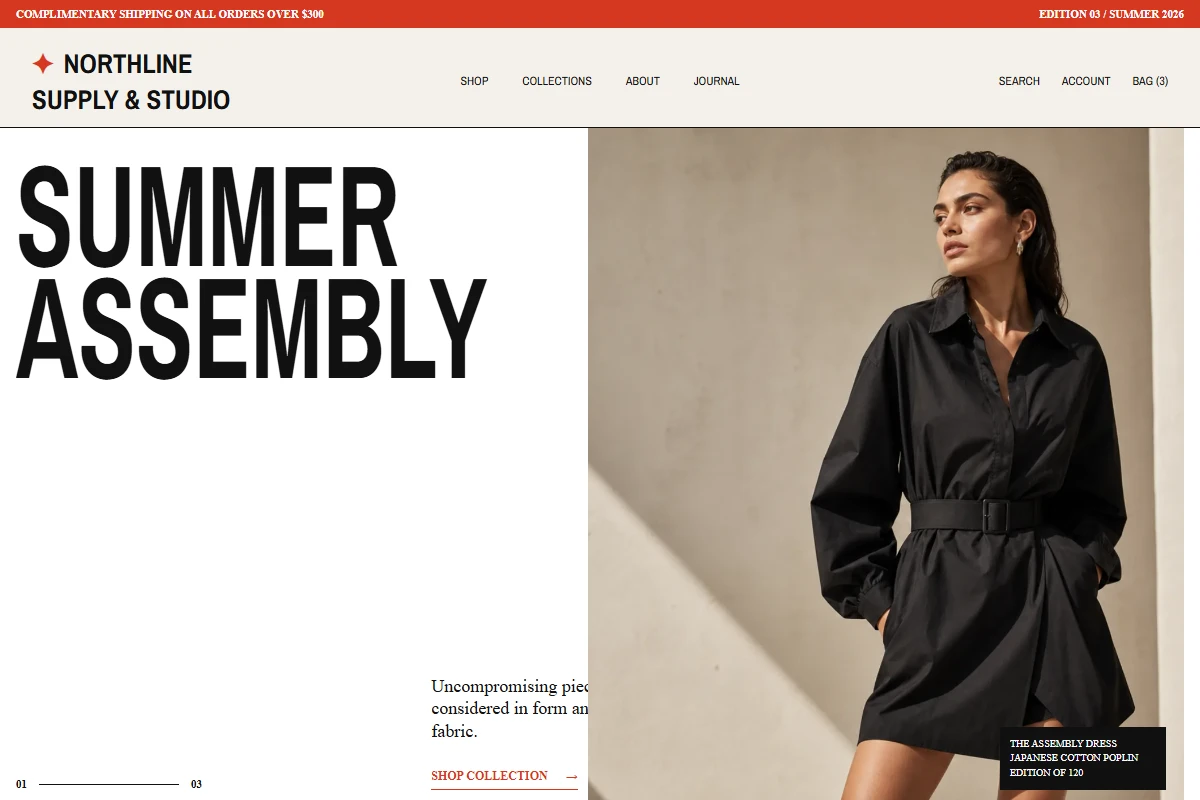
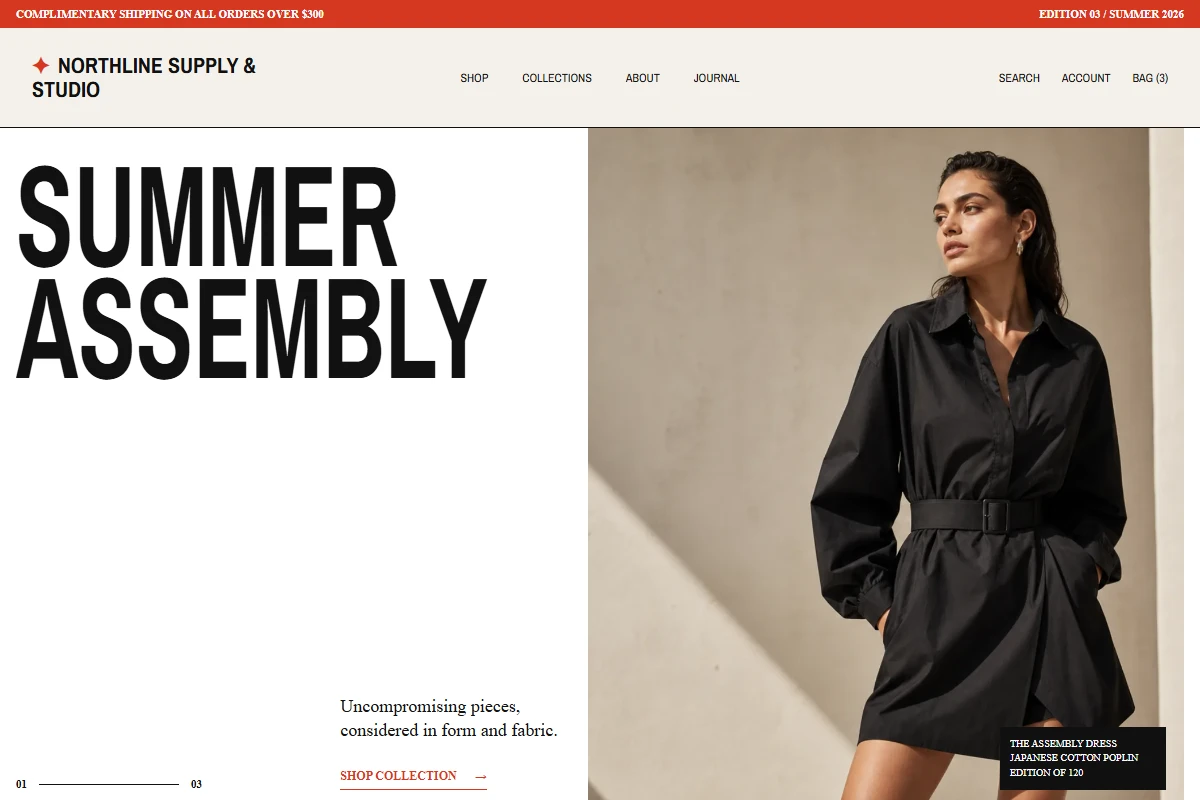
storefront/recipes: fix atelier-nine overflow and quick-buy structure
The hero copy grid track sized to the h1 intrinsic width (~627px at the
104px breakpoint), pushing the intro under the media column where
overflow:hidden clipped it mid-word; minmax(0,1fr) pins the track. The
wordmark now wraps inside the 67px header (clamped size, min-height,
flexible track columns at every breakpoint, flexible edition rule) so
long store names neither spill over the hero nor break the sticky
sidebar offset. Quick-buy slots move onto a repeated inner item under
one section so the runtime strip grid can lay them out side by side.
Baselines and the screenshot manifest are regenerated from the proof
harness (18/18 cases pass).

diff --git a/app/lib/storefront-recipes/atelier-nine/bundle.ts b/app/lib/storefront-recipes/atelier-nine/bundle.ts
@@ -11,8 +11,8 @@ const globalCss = `
 .atelier-shell { width:min(calc(100% - 32px),1540px); margin-inline:auto }
 .announcement { display:flex; justify-content:space-between; padding:8px 16px; color:#fff; background:#d63821; font-size:11px; font-weight:700; text-transform:uppercase }
 .atelier-site-header { position:sticky; top:0; z-index:20; background:#f4f1eb; border-bottom:1px solid #101010 }
-.header-row { display:grid; grid-template-columns:250px 1fr 250px; align-items:center; height:67px }
-.atelier-wordmark { color:#101010; font-family:var(--font-display); font-size:27px; font-weight:900; text-transform:uppercase }
+.header-row { display:grid; grid-template-columns:minmax(0,250px) 1fr minmax(0,250px); align-items:center; min-height:67px }
+.atelier-wordmark { color:#101010; font-family:var(--font-display); font-size:clamp(15px,2vw,22px); font-weight:900; line-height:1.05; padding-block:8px; text-transform:uppercase }
 .atelier-nav-links,.atelier-utility { display:flex; align-items:center; gap:34px; font-family:var(--font-display); font-size:12px; text-transform:uppercase }
 .atelier-nav-links { justify-content:center }
 .atelier-utility { justify-content:flex-end; gap:22px }
@@ -66,7 +66,9 @@ const homeHtml = `
       </div>
     </div>
   </section>
-  <section data-cd-repeat="featured.products"><div data-cd-key="product.id" data-cd-slot="quickViewCommerce" data-cd-product="product.id" data-cd-host-size="panel" data-cd-theme-tokens="ink paper accent"></div></section>
+  <section>
+    <div data-cd-repeat="featured.products"><div data-cd-key="product.id" data-cd-slot="quickViewCommerce" data-cd-product="product.id" data-cd-host-size="panel" data-cd-theme-tokens="ink paper accent"></div></div>
+  </section>
   <section class="atelier-shell manifesto">
     <div class="manifesto-copy"><span class="manifesto-kicker">The Atelier Standard</span><h2>Designed slowly. Worn without ceremony.</h2><p>Every piece begins with proportion: a shoulder line, a clean fall, a pocket placed exactly where the hand expects it. We use materials selected for movement, longevity, and a life beyond one season.</p><a class="arrow-link" data-cd-route="collection">Read our process <span>→</span></a></div>
     <div class="manifesto-index"><div><strong>09</strong><span>Pieces / one complete wardrobe</span></div></div>
@@ -75,13 +77,13 @@ const homeHtml = `
 
 const homeCss = `
 .hero { display:grid; grid-template-columns:49% 51%; min-height:680px; border-bottom:1px solid #101010 }
-.hero-copy { display:grid; grid-template-rows:1fr auto; overflow:hidden; padding:30px 18px 18px 0 }
+.hero-copy { display:grid; grid-template-columns:minmax(0,1fr); grid-template-rows:1fr auto; overflow:hidden; padding:30px 18px 18px 0 }
 .hero-title { width:137%; margin:0; font-family:var(--font-display); font-size:144px; font-weight:900; line-height:.78; text-transform:uppercase; transform:scaleX(.73); transform-origin:top left }
 .hero-title span { display:block }
-.hero-lower { display:grid; grid-template-columns:1fr 230px; gap:24px; align-items:end }
+.hero-lower { display:grid; grid-template-columns:minmax(0,1fr) minmax(0,230px); gap:24px; align-items:end }
 .edition { display:flex; align-items:center; gap:12px; font-size:11px }
-.edition i { width:140px; height:1px; background:#101010 }
-.hero-intro p { max-width:22ch; margin:0 0 24px; font-family:var(--font-body); font-size:18px; line-height:1.25 }
+.edition i { flex:1 1 40px; max-width:140px; height:1px; background:#101010 }
+.hero-intro p { max-width:100%; margin:0 0 24px; font-family:var(--font-body); font-size:clamp(14px,1.5vw,18px); line-height:1.3 }
 .arrow-link { display:inline-flex; align-items:center; gap:18px; padding-bottom:5px; color:#d63821; border-bottom:1px solid currentColor; font-weight:750; font-size:12px; text-decoration:none; text-transform:uppercase }
 .hero-media { position:relative; min-height:680px; overflow:hidden }
 .hero-media img { width:100%; height:100%; object-fit:cover; object-position:58% center }
@@ -157,8 +159,8 @@ const collectionHtml = `
       </a>
     </article>
   </section>
-  <section data-cd-repeat="collection.products">
-    <div data-cd-key="product.id" data-cd-slot="quickViewCommerce" data-cd-product="product.id" data-cd-host-size="panel" data-cd-theme-tokens="ink paper accent"></div>
+  <section>
+    <div data-cd-repeat="collection.products"><div data-cd-key="product.id" data-cd-slot="quickViewCommerce" data-cd-product="product.id" data-cd-host-size="panel" data-cd-theme-tokens="ink paper accent"></div></div>
   </section>
 </main>`;
 
@@ -251,8 +253,8 @@ const searchHtml = `
       </a>
     </article>
   </section>
-  <section data-cd-repeat="search.results">
-    <div data-cd-key="product.id" data-cd-slot="quickViewCommerce" data-cd-product="product.id" data-cd-host-size="panel" data-cd-theme-tokens="ink paper accent"></div>
+  <section>
+    <div data-cd-repeat="search.results"><div data-cd-key="product.id" data-cd-slot="quickViewCommerce" data-cd-product="product.id" data-cd-host-size="panel" data-cd-theme-tokens="ink paper accent"></div></div>
   </section>
 </main>`;
 
@@ -385,7 +387,7 @@ const config = {
       source: {
         ...routeDefaults,
         html: `<div class="announcement"><span>Complimentary shipping on all orders over $300</span><span>Edition 03 / Summer 2026</span></div><header class="atelier-site-header"><div class="atelier-shell header-row"><a class="atelier-wordmark atelier-link" data-cd-route="home"><span class="niche-icon niche-icon--atelier" aria-hidden="true">&#10022;</span><span data-cd-text="store.name"></span></a><nav class="atelier-nav-links" aria-label="Primary"><a class="atelier-link" data-cd-route="collection">Shop</a><a class="atelier-link" data-cd-route="collection">Collections</a><a class="atelier-link" data-cd-route="home">About</a><a class="atelier-link" data-cd-route="search">Journal</a></nav><div class="atelier-utility"><a class="atelier-link" data-cd-route="search">Search</a><a class="atelier-link" data-cd-route="account">Account</a><a class="atelier-link" data-cd-route="cart">Bag (<span data-cd-text="cart.count"></span>)</a></div></div></header><div data-cd-slot="cartDrawer" data-cd-host-size="panel" data-cd-theme-tokens="ink paper accent"></div>${globalFooterHtml}`,
-        css: `.niche-icon--atelier{margin-right:.35em;color:var(--accent)}.atelier-policy-links{display:flex;flex-wrap:wrap;gap:1rem}.atelier-policy-links a{color:var(--ink);text-decoration:none}@media(max-width:1120px){.header-row{grid-template-columns:200px 1fr 200px}.atelier-nav-links{gap:18px}.atelier-utility{gap:12px}}@media(max-width:760px){.announcement span:last-child{display:none}.header-row{display:flex;flex-wrap:wrap;width:calc(100vw - 20px);height:auto;min-height:58px;padding:8px 0}.atelier-wordmark{font-size:22px}.atelier-nav-links{order:3;width:100%;gap:18px;overflow-x:auto;padding:7px 0 2px}.atelier-utility{margin-left:auto}.atelier-utility .atelier-link:not(:last-child){display:none}}`,
+        css: `.niche-icon--atelier{margin-right:.35em;color:var(--accent)}.atelier-policy-links{display:flex;flex-wrap:wrap;gap:1rem}.atelier-policy-links a{color:var(--ink);text-decoration:none}@media(max-width:1120px){.header-row{grid-template-columns:minmax(0,200px) 1fr minmax(0,200px)}.atelier-nav-links{gap:18px}.atelier-utility{gap:12px}}@media(max-width:760px){.announcement span:last-child{display:none}.header-row{display:flex;flex-wrap:wrap;width:calc(100vw - 20px);height:auto;min-height:58px;padding:8px 0}.atelier-wordmark{font-size:22px}.atelier-nav-links{order:3;width:100%;gap:18px;overflow-x:auto;padding:7px 0 2px}.atelier-utility{margin-left:auto}.atelier-utility .atelier-link:not(:last-child){display:none}}`,
       },
     },
     home: { signature: "offset cover story beside owned full-height fashion photography", source: { ...routeDefaults, html: homeHtml, css: homeCss } },
